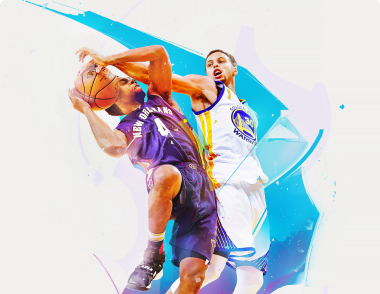
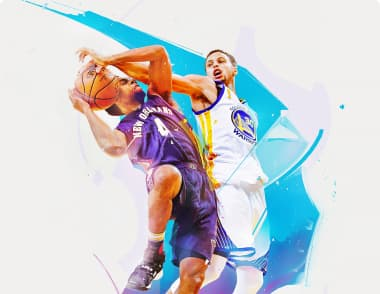
cжимает картинки

diff --git a/index.html b/index.html
@@ -39,35 +39,27 @@
 
         <ul class="contact-nav">
           <li class="item">
-            <a href="/" class="link"
-              ><img
-                src="./imeges/mail-logo.svg"
-                alt="конверт"
-              />info@devstudio.com</a
-            >
+            <a href="/" class="link mail">info@devstudio.com</a>
           </li>
           <li class="item">
-            <a href="/" class="link"
-              ><img
-                src="./imeges/phone-logo.svg"
-                alt="смартфон"
-              />+380961111111</a
-            >
+            <a href="/" class="link tel"> +38 096 111 11 11</a>
           </li>
         </ul>
       </div>
     </header>
     <!--hero-->
     <main>
-      <section class="hero">
-        <div class="container">
-          <h1 class="hero-title">
-            Эфективные решения<br />
-            для вашего бизнеса
-          </h1>
-          <a href="#" class="link">Заказать услугу</a>
-        </div>
-      </section>
+      <div class="overlay">
+        <section class="hero">
+          <div class="container">
+            <h1 class="hero-title">
+              Эфективные решения<br />
+              для вашего бизнеса
+            </h1>
+            <a href="#" class="link">Заказать услугу</a>
+          </div>
+        </section>
+      </div>
 
       <!--характеристики-->
       <section class="section">
@@ -75,27 +67,13 @@
           <!-- <h2>Наши характеристики</h2> -->
           <ul class="characteristic list">
             <li class="item">
-              <a class="icon" href="#"
-                ><img
-                  class="picture"
-                  src="./imeges/antenna.svg"
-                  alt="антена"
-                  width="70"
-              /></a>
               <h3 class="section-title">Внимание к деталям</h3>
-              <p>
+              <p class="text">
                 Идейные соображения, а также начало повседневной работы по
                 формированию позиции.
               </p>
             </li>
             <li class="item">
-              <a class="icon" href="#"
-                ><img
-                  class="picture"
-                  src="./imeges/clock.svg"
-                  alt="часы"
-                  width="70"
-              /></a>
               <h3 class="section-title">Пунктуальность</h3>
               <p>
                 Задача организации, в особенности же рамки и место обучения
@@ -103,13 +81,6 @@
               </p>
             </li>
             <li class="item">
-              <a class="icon" href="#"
-                ><img
-                  class="picture"
-                  src="./imeges/diagram.svg"
-                  alt="компьютер с диаграммой"
-                  width="70"
-              /></a>
               <h3 class="section-title">Планирование</h3>
               <p>
                 Равным образом консультация с широким активом в значительной
@@ -117,13 +88,6 @@
               </p>
             </li>
             <li class="item">
-              <a class="icon" href="#"
-                ><img
-                  class="picture"
-                  src="./imeges/astronaut.svg"
-                  alt="астронавт"
-                  width="70"
-              /></a>
               <h3 class="section-title">Современные технологии</h3>
               <p>
                 Значимость этих проблем настолько очевидна, что реализация
@@ -140,26 +104,25 @@
           <h2 class="project-title">Чем мы занимаемся</h2>
           <ul class="project-list">
             <li class="item">
-              <img src="./imeges/laptop.png" alt="ноутбук" width="370" />
-              <a href="#" class="link">Десктопные приложения</a>
+              <img src="./imeges/laptop.jpg" alt="ноутбук" width="370" />
+              <p class="text">Десктопные приложения</p>
             </li>
             <li class="item">
               <img
-                src="./imeges/screen-phone.png"
+                src="./imeges/screen-phone.jpg"
                 alt="скрин телефона"
                 width="370"
               />
-
-              <a href="#" class="link">Мобильные приложения</a>
+              <p class="text">Мобильные приложения</p>
             </li>
             <li class="item">
               <img
-                src="./imeges/monitor.png"
+                src="./imeges/monitor.jpg"
                 alt="монитор компьютера"
                 width="370"
               />
 
-              <a href="#" class="link">Дизайнерские решения</a>
+              <p class="text">Дизайнерские решения</p>
             </li>
           </ul>
         </div>

diff --git a/css/style.css b/css/style.css
@@ -33,7 +33,7 @@ p {
   padding: 0;
 }
 .container {
-  /* outline: 2px solid black; */
+  outline: 2px solid black;
   width: 1200px;
   padding-left: 15px;
   padding-right: 15px;
@@ -109,11 +109,42 @@ p {
 .contact-nav .link:hover {
   color: var(--accent-color);
 }
-
+.contact-nav .mail::before {
+  content: "";
+  display: inline-flex;
+  width: 16px;
+  height: 11.2px;
+  margin-right: 10px;
+  background-image: url("../imeges/mail-logo.svg");
+  background-size: contain;
+}
+.contact-nav .tel::before {
+  content: "";
+  display: inline-flex;
+  width: 10px;
+  height: 15px;
+  margin-right: 10px;
+  background-image: url("../imeges/phone-logo.svg");
+  background-size: contain;
+}
 /* hero */
+
+.overlay {
+  outline: 2px solid black;
+  width: 1600px;
+  margin-left: auto;
+  margin-right: auto;
+  background-image: linear-gradient(
+      to right,
+      rgba(47, 48, 58, 0.8),
+      rgba(47, 48, 58, 0.8)
+    ),
+    url("../imeges/Header-img\ .jpg");
+  background-size: cover;
+  background-position: center;
+}
 .hero {
   text-align: center;
-  background: #2f303a;
 }
 .hero-title {
   margin-top: 0;
@@ -159,7 +190,36 @@ p {
 .characteristic .item:nth-child(4) {
   margin-right: 0;
 }
+.characteristic .item::before {
+  outline: 2px solid black;
+  content: "";
+  display: block;
+  height: 120px;
+  margin-bottom: 30px;
 
+  background: #f5f4fa;
+  border-radius: 4px;
+}
+.characteristic .item:nth-child(1)::before {
+  background-image: url("../imeges/antenna.svg");
+  background-repeat: no-repeat;
+  background-position: center;
+}
+.characteristic .item:nth-child(2)::before {
+  background-image: url("../imeges/clock.svg");
+  background-repeat: no-repeat;
+  background-position: center;
+}
+.characteristic .item:nth-child(3)::before {
+  background-image: url("../imeges/diagram.svg");
+  background-repeat: no-repeat;
+  background-position: center;
+}
+.characteristic .item:nth-child(4)::before {
+  background-image: url("../imeges/astronaut.svg");
+  background-repeat: no-repeat;
+  background-position: center;
+}
 .section-title {
   margin-top: 0;
   margin-bottom: 10px;
@@ -185,8 +245,7 @@ p {
   margin-right: 0;
 }
 
-.project .link {
-  display: inline-block;
+.project .text {
   width: 370px;
   height: 70px;
   padding: 27px 90px;
@@ -442,6 +501,7 @@ p {
   font-size: 14px;
   line-height: 1.14;
 }
+
 .footer-address {
   margin-bottom: 10px;
   color: #ffffff;
@@ -493,4 +553,13 @@ p {
   font-weight: 900;
   font-size: 16px;
   line-height: 1.87;
+}
+.button-title::after {
+  content: "";
+  display: inline-flex;
+  width: 24px;
+  /* background-image: url("../imeges/icon-send.svg"); */
+  background-size: contain;
+  background-position: center;
+  background-color: aliceblue;
 }
